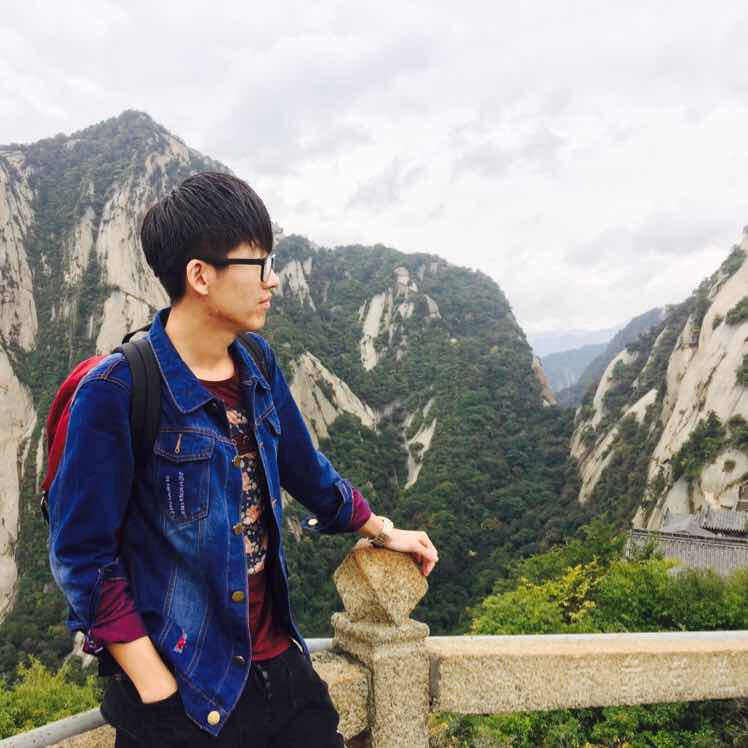
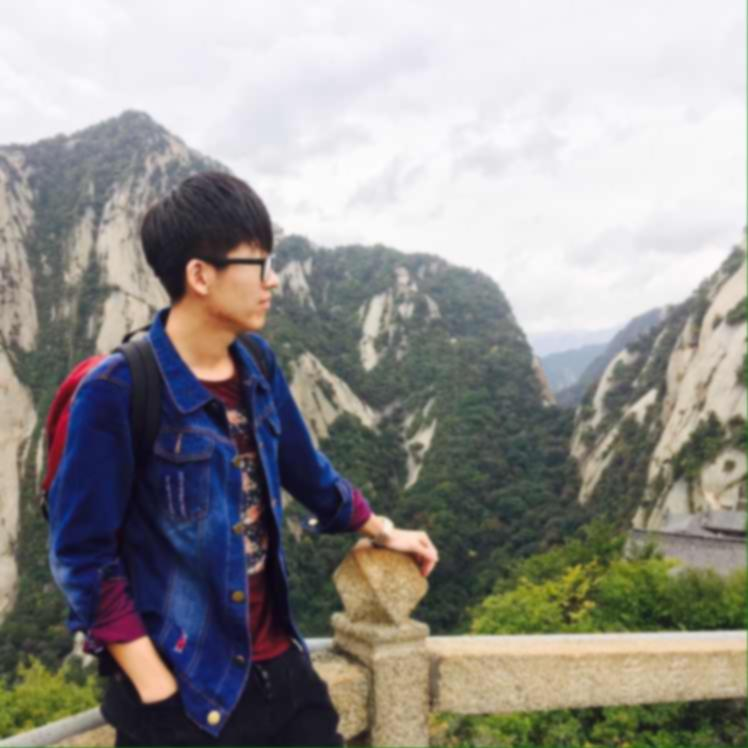
finish

diff --git a/main.go b/main.go
@@ -11,16 +11,12 @@ import (
 )
 
 // OMIGA Ω
-const OMIGA = 1.5
+const OMIGA = 10
 
 func main() {
-	num := 1
+	num := 10
 
-	// fmt.Println(GetAvgArr(1))
-
-	// fmt.Println(GaussFunc(0, 0, OMIGA))
-
-	PrintImg("ava.jpg", "bvb.jpg", GetAvgArr(num), num)
+	PrintImg("ava.jpg", "cvc.jpg", GetAvgArr(num), num)
 
 }
 
@@ -79,16 +75,51 @@ func PrintImg(sourceImg, tagImg string, arr [][]float64, num int) {
 
 	for i := 0; i < xWidth; i++ {
 		for j := 0; j < yHeight; j++ {
-			for k := 0; k < ((2*num + 1) * (2*num + 1)); k++ {
-			}
-			thisR, thisG, thisB, thisA := img.At(i, j).RGBA()
 			var newColor color.RGBA64
-			newColor.R = uint16(thisR)
-			newColor.G = uint16(thisG)
-			newColor.B = uint16(thisB)
-			newColor.A = uint16(thisA)
+			var sumR, sumG, sumB, sumA uint16
 
+			for p := ((-1) * num); p <= num; p++ {
+				for q := ((-1) * num); q <= num; q++ {
+					trueX := i + p
+					trueY := j + q
+
+					// 若超出边界则使用边界值
+					if trueX < 0 {
+						trueX = 0
+					} else if trueX > xWidth {
+						trueX = xWidth
+					}
+					if trueY < 0 {
+						trueY = 0
+					} else if trueY > yHeight {
+						trueY = yHeight
+					}
+					thisR, thisG, thisB, thisA := img.At(trueX, trueY).RGBA()
+					sumR += uint16(arr[p+num][q+num] * float64(thisR))
+					sumG += uint16(arr[p+num][q+num] * float64(thisG))
+					sumB += uint16(arr[p+num][q+num] * float64(thisB))
+					sumA += uint16(arr[p+num][q+num] * float64(thisA))
+					// fmt.Println(sumA)
+				}
+			}
+
+			// for k := 0; k < ((2*num + 1) * (2*num + 1)); k++ {
+			// 	var sumR uint16 = 0
+			// 	newColor.R = uint16(sumR)
+
+			// }
+			newColor.R = sumR
+			newColor.G = sumG
+			newColor.B = sumB
+			newColor.A = sumA
 			jpg.SetRGBA64(i, j, newColor)
+			// thisR, thisG, thisB, thisA := img.At(i, j).RGBA()
+			// var newColor color.RGBA64
+			// newColor.R = uint16(thisR)
+			// newColor.G = uint16(thisG)
+			// newColor.B = uint16(thisB)
+			// newColor.A = uint16(thisA)
+
 		}
 	}
 	// r, g, b, a := img.At(0, 0).RGBA()

diff --git a/README.md b/README.md
@@ -5,3 +5,8 @@ GaussianBlur for golang go 语言图像处理库——高斯模糊
 (i-1,j-1) (i,j-1) (i+1,j-1)
 (i-1,j) (i,j) (i+1,j)
 (i-1,j+1) (i,j+1) (i+1,j+1)
+
+```javascript
+i-num => i+num
+j-num => j+num
+```
